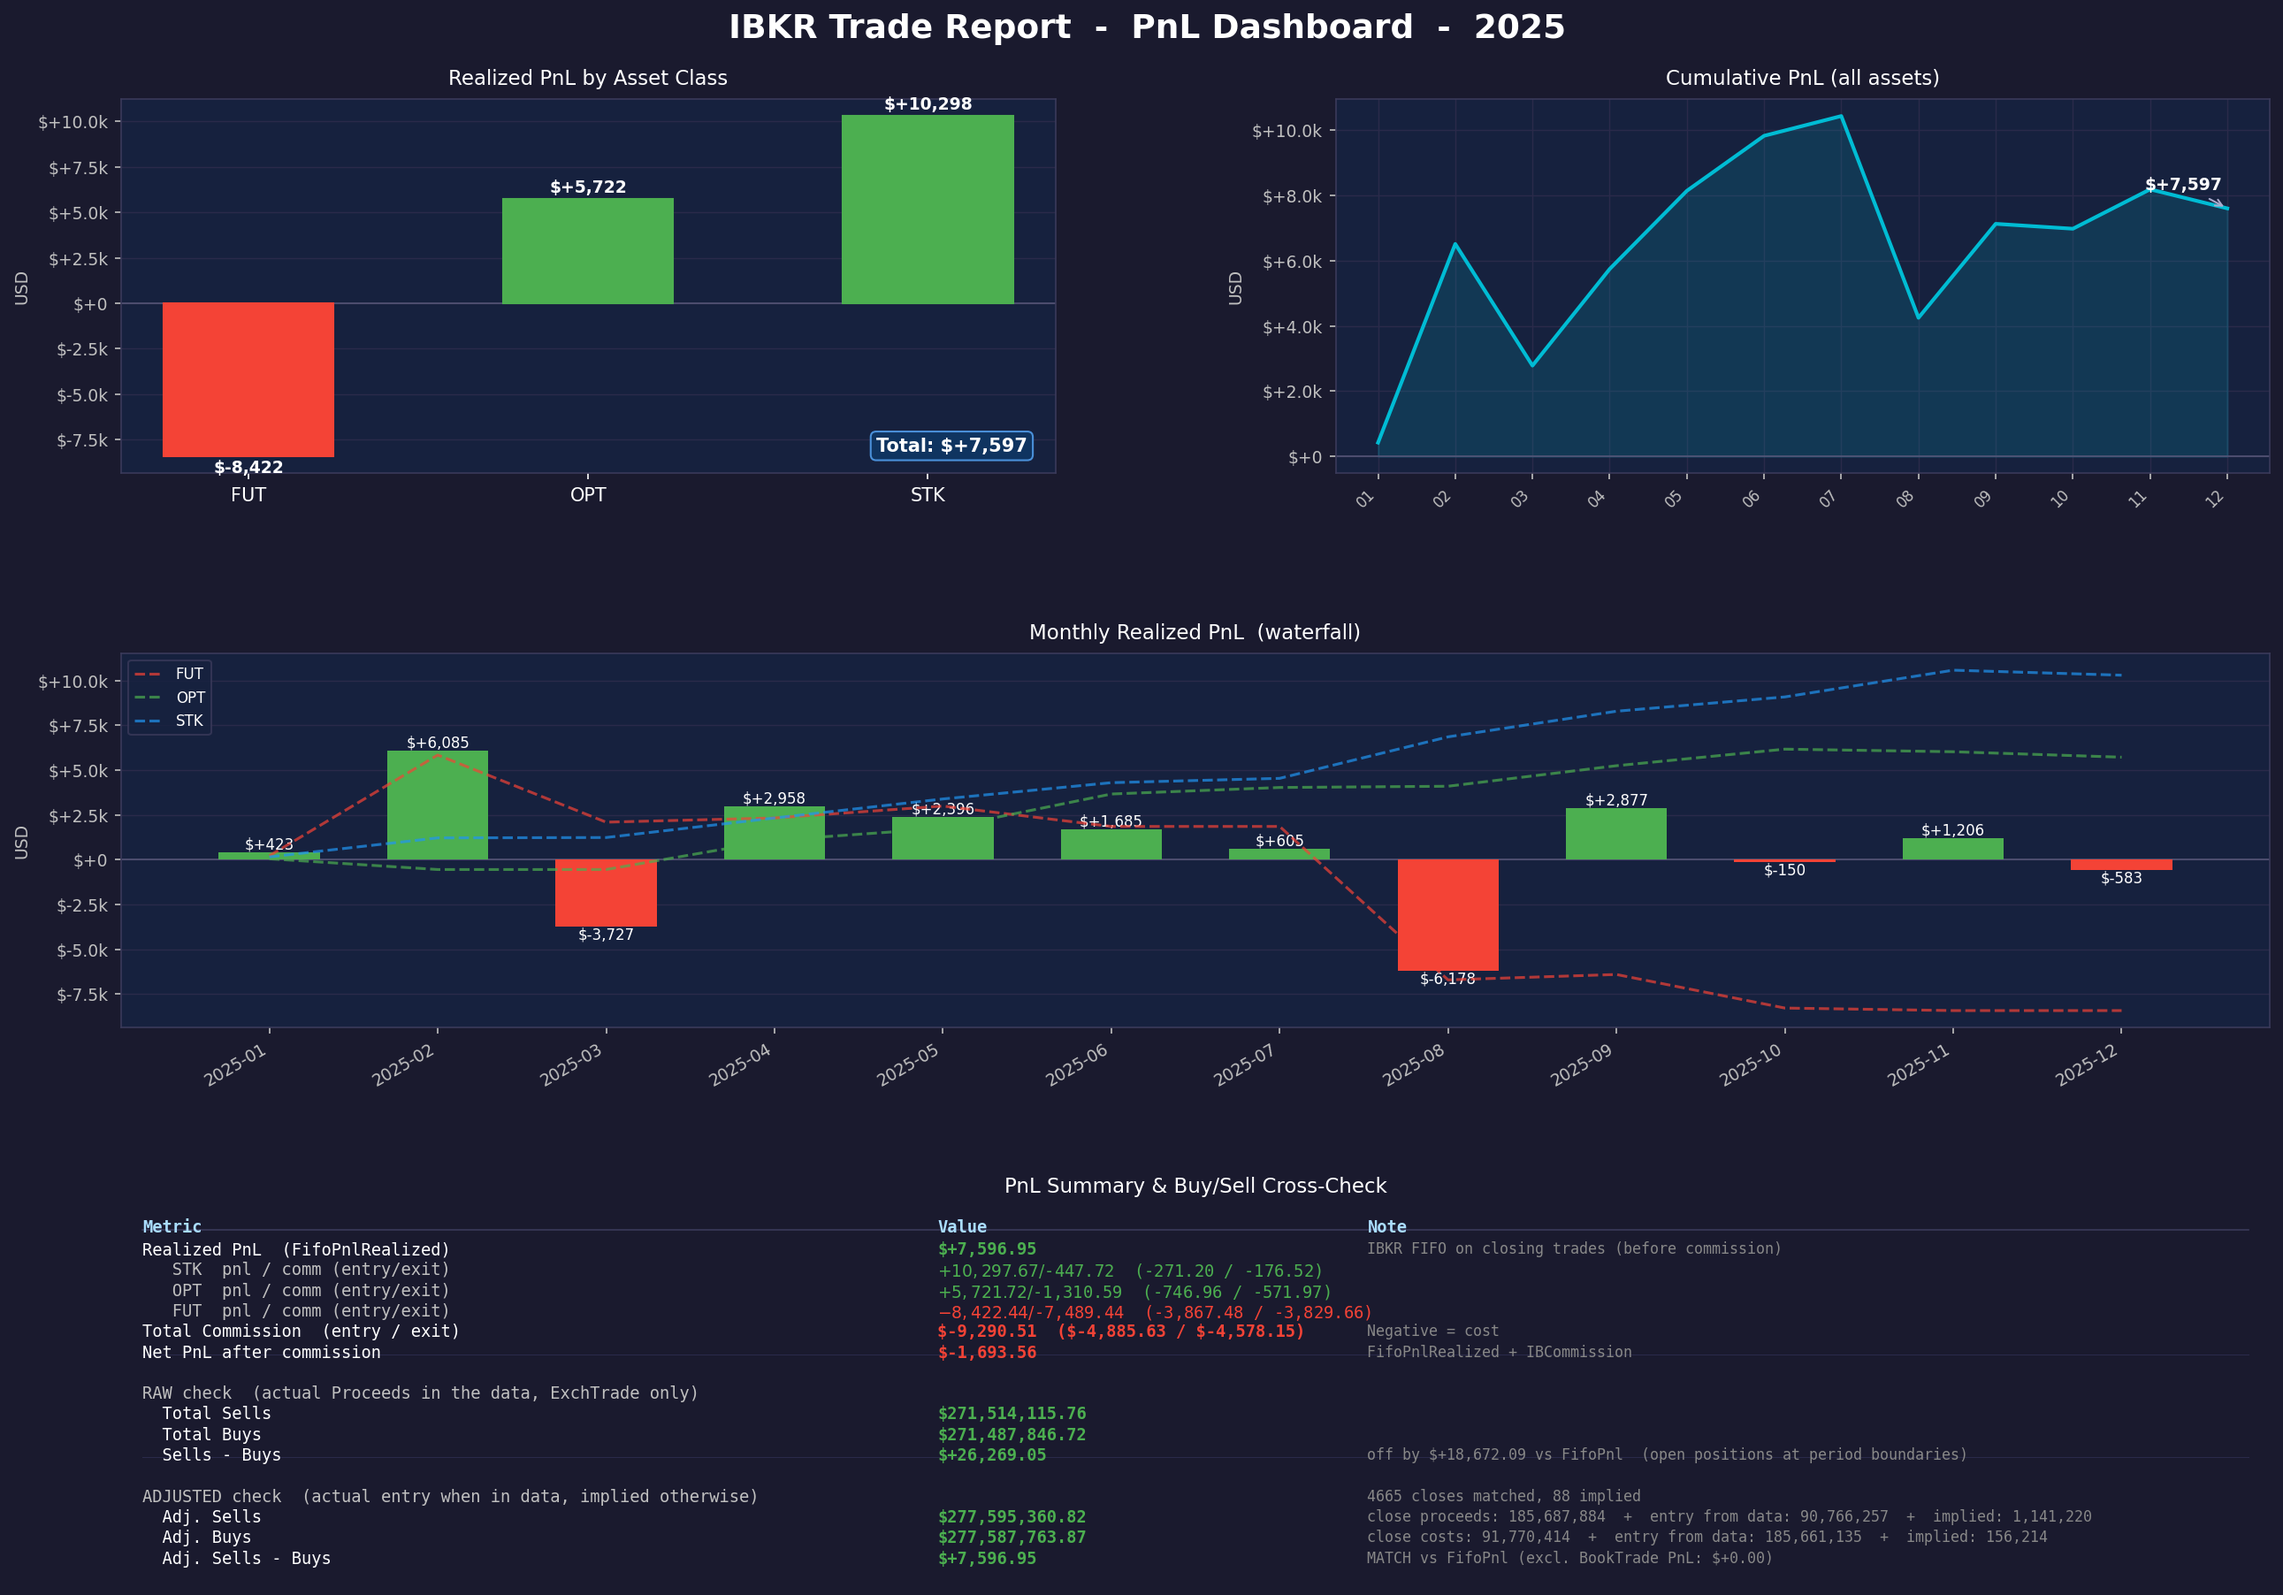
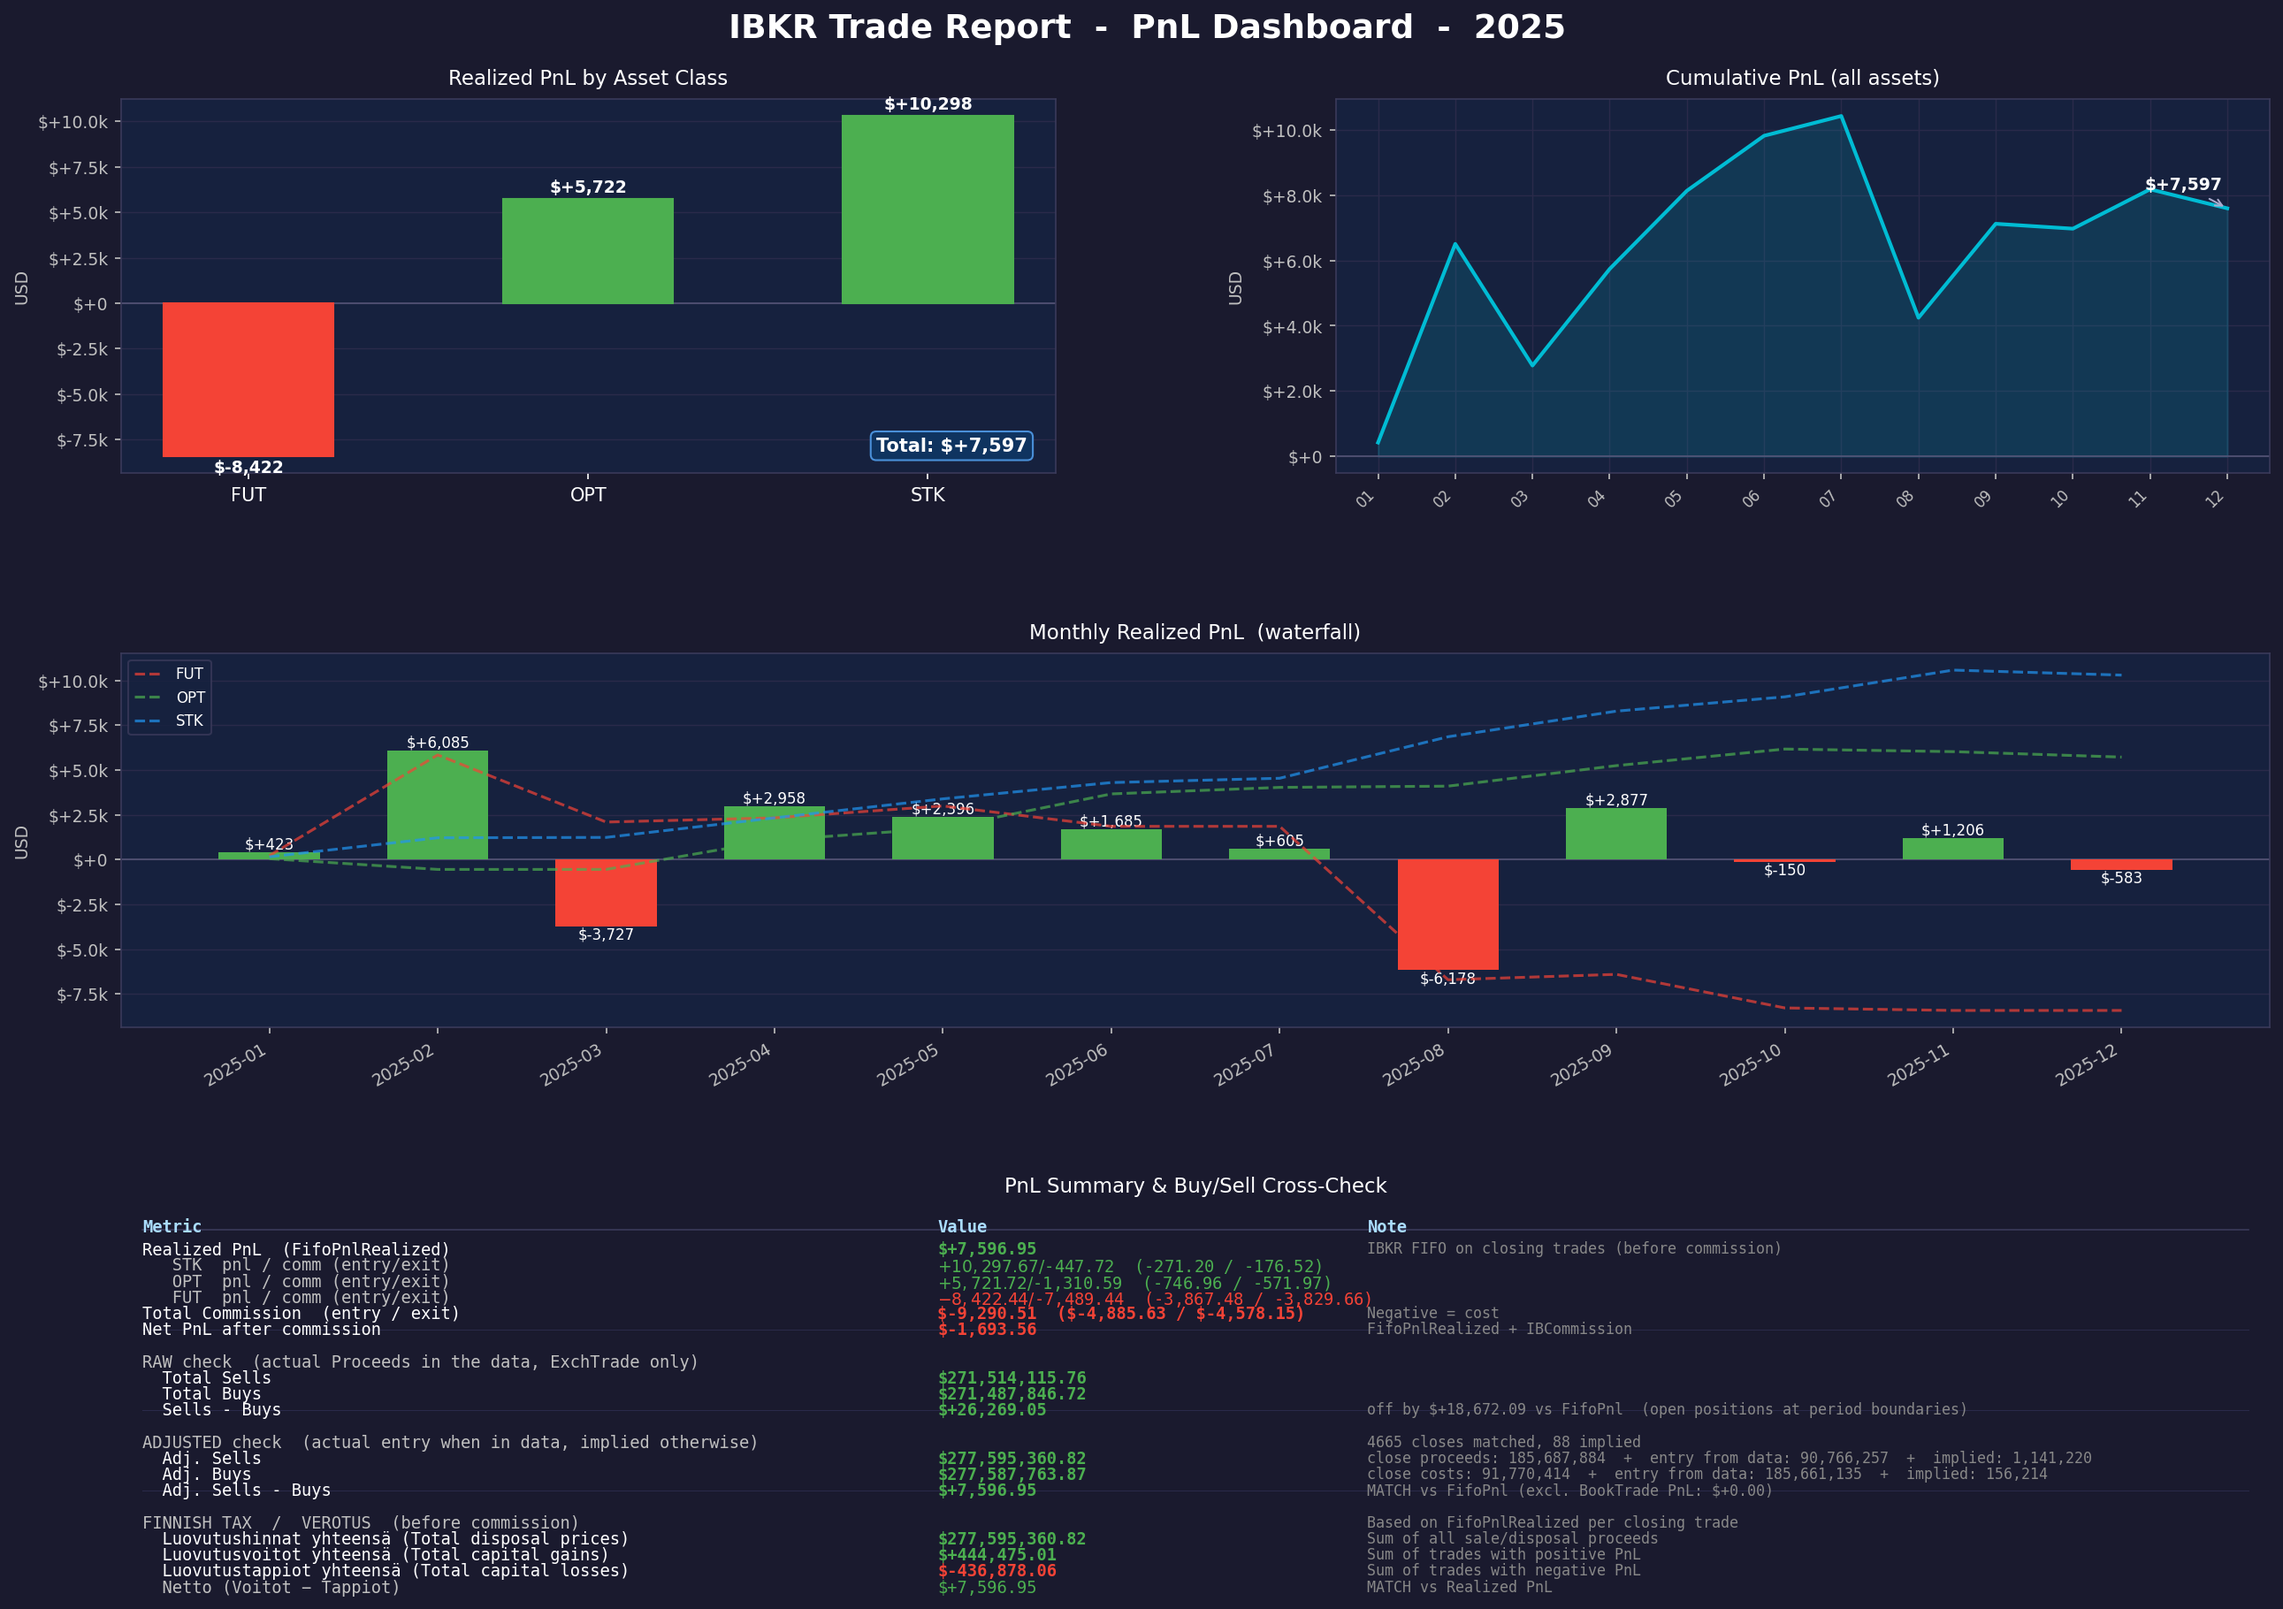
Add Finnish tax figures (Verotus) to PnL dashboard
Calculate and display the three totals required for Finnish tax return:
- Luovutushinnat yhteensä (total disposal prices)
- Luovutusvoitot yhteensä (total capital gains)
- Luovutustappiot yhteensä (total capital losses)

diff --git a/pnl_report.py b/pnl_report.py
@@ -97,6 +97,11 @@ asset_commission = defaultdict(float)
 asset_entry_comm = defaultdict(float)
 asset_exit_comm  = defaultdict(float)
 
+# ── Finnish tax (Verotus) ─────────────────────────────────────────────────────
+luovutushinnat  = 0.0   # Total disposal/sale prices
+luovutusvoitot  = 0.0   # Total capital gains  (positive PnL trades only)
+luovutustappiot = 0.0   # Total capital losses (negative PnL trades only)
+
 # ── FIFO pool for matching opening trades to closing trades ─────────────────
 # Key: (symbol, "LONG" | "SHORT")
 # Value: deque of [remaining_qty, remaining_proceeds]  (both positive)
@@ -202,6 +207,12 @@ with open(CSV_PATH, encoding="utf-8") as f:
         asset_monthly[asset][month] += fifo
         total_fifo                  += fifo
 
+        # ── Finnish tax: split gains vs losses per trade ────────────────────
+        if fifo > 0:
+            luovutusvoitot  += fifo
+        elif fifo < 0:
+            luovutustappiot += fifo
+
         # ── Commission ──────────────────────────────────────────────────────
         try:
             comm = float(row["IBCommission"])
@@ -258,6 +269,8 @@ with open(CSV_PATH, encoding="utf-8") as f:
                 adj_buys_entry_actual  += matched_cost
                 adj_buys_entry_implied += implied_cost
 
+                luovutushinnat += close_value          # disposal price = sale proceeds
+
                 if matched_qty > 1e-9:
                     actual_entry_closes += 1
                 if qty - matched_qty > 1e-9:
@@ -275,6 +288,8 @@ with open(CSV_PATH, encoding="utf-8") as f:
                 adj_buys_close_actual   += close_value
                 adj_sells_entry_actual  += matched_credit
                 adj_sells_entry_implied += implied_credit
+
+                luovutushinnat += total_entry           # disposal price = original short sale
 
                 if matched_qty > 1e-9:
                     actual_entry_closes += 1
@@ -481,11 +496,26 @@ rows_data = [
     ["  Adj. Sells - Buys",
      f"${adj_pnl_check:+,.2f}",
      f"{match_label(adj_diff)} vs FifoPnl (excl. BookTrade PnL: ${total_fifo - adj_pnl_check:+,.2f})"],
+    ["", "", ""],
+    ["FINNISH TAX  /  VEROTUS  (before commission)",
+     "", "Based on FifoPnlRealized per closing trade"],
+    ["  Luovutushinnat yhteensä (Total disposal prices)",
+     f"${luovutushinnat:,.2f}",
+     "Sum of all sale/disposal proceeds"],
+    ["  Luovutusvoitot yhteensä (Total capital gains)",
+     f"${luovutusvoitot:+,.2f}",
+     "Sum of trades with positive PnL"],
+    ["  Luovutustappiot yhteensä (Total capital losses)",
+     f"${luovutustappiot:+,.2f}",
+     "Sum of trades with negative PnL"],
+    ["  Netto (Voitot − Tappiot)",
+     f"${luovutusvoitot + luovutustappiot:+,.2f}",
+     f"{match_label(luovutusvoitot + luovutustappiot - total_fifo)} vs Realized PnL"],
 ]
 
 # Draw as a styled table
 col_x   = [0.01, 0.38, 0.58]
-row_h   = 0.055
+row_h   = 0.043
 y_start = 0.97
 
 for i, label in enumerate(col_labels):
@@ -497,7 +527,7 @@ for i, label in enumerate(col_labels):
 ax_sum.plot([0.01, 0.99], [y_start - 0.03, y_start - 0.03],
             color="#3a3a5a", linewidth=0.8, transform=ax_sum.transAxes)
 
-separator_rows = {6, 11}
+separator_rows = {6, 11, 16}
 for ri, row in enumerate(rows_data):
     y = y_start - 0.06 - ri * row_h
     if ri in separator_rows:
@@ -549,5 +579,10 @@ print(f"    entry from data  : ${adj_buys_entry_actual:,.2f}")
 print(f"    entry implied    : ${adj_buys_entry_implied:,.2f}")
 print(f"  Sells - Buys       : ${adj_pnl_check:+,.2f}  ({match_label(adj_diff)} vs FIFO)")
 print(f"  Matched closes: {actual_entry_closes}  |  Implied closes: {implied_entry_closes}")
+print(f"\nFINNISH TAX  /  VEROTUS  (before commission)")
+print(f"  Luovutushinnat yhteensä  (Total disposal prices) : ${luovutushinnat:,.2f}")
+print(f"  Luovutusvoitot yhteensä  (Total capital gains)   : ${luovutusvoitot:+,.2f}")
+print(f"  Luovutustappiot yhteensä (Total capital losses)  : ${luovutustappiot:+,.2f}")
+print(f"  Netto (Voitot − Tappiot)                         : ${luovutusvoitot + luovutustappiot:+,.2f}")
 
 plt.close(fig)
